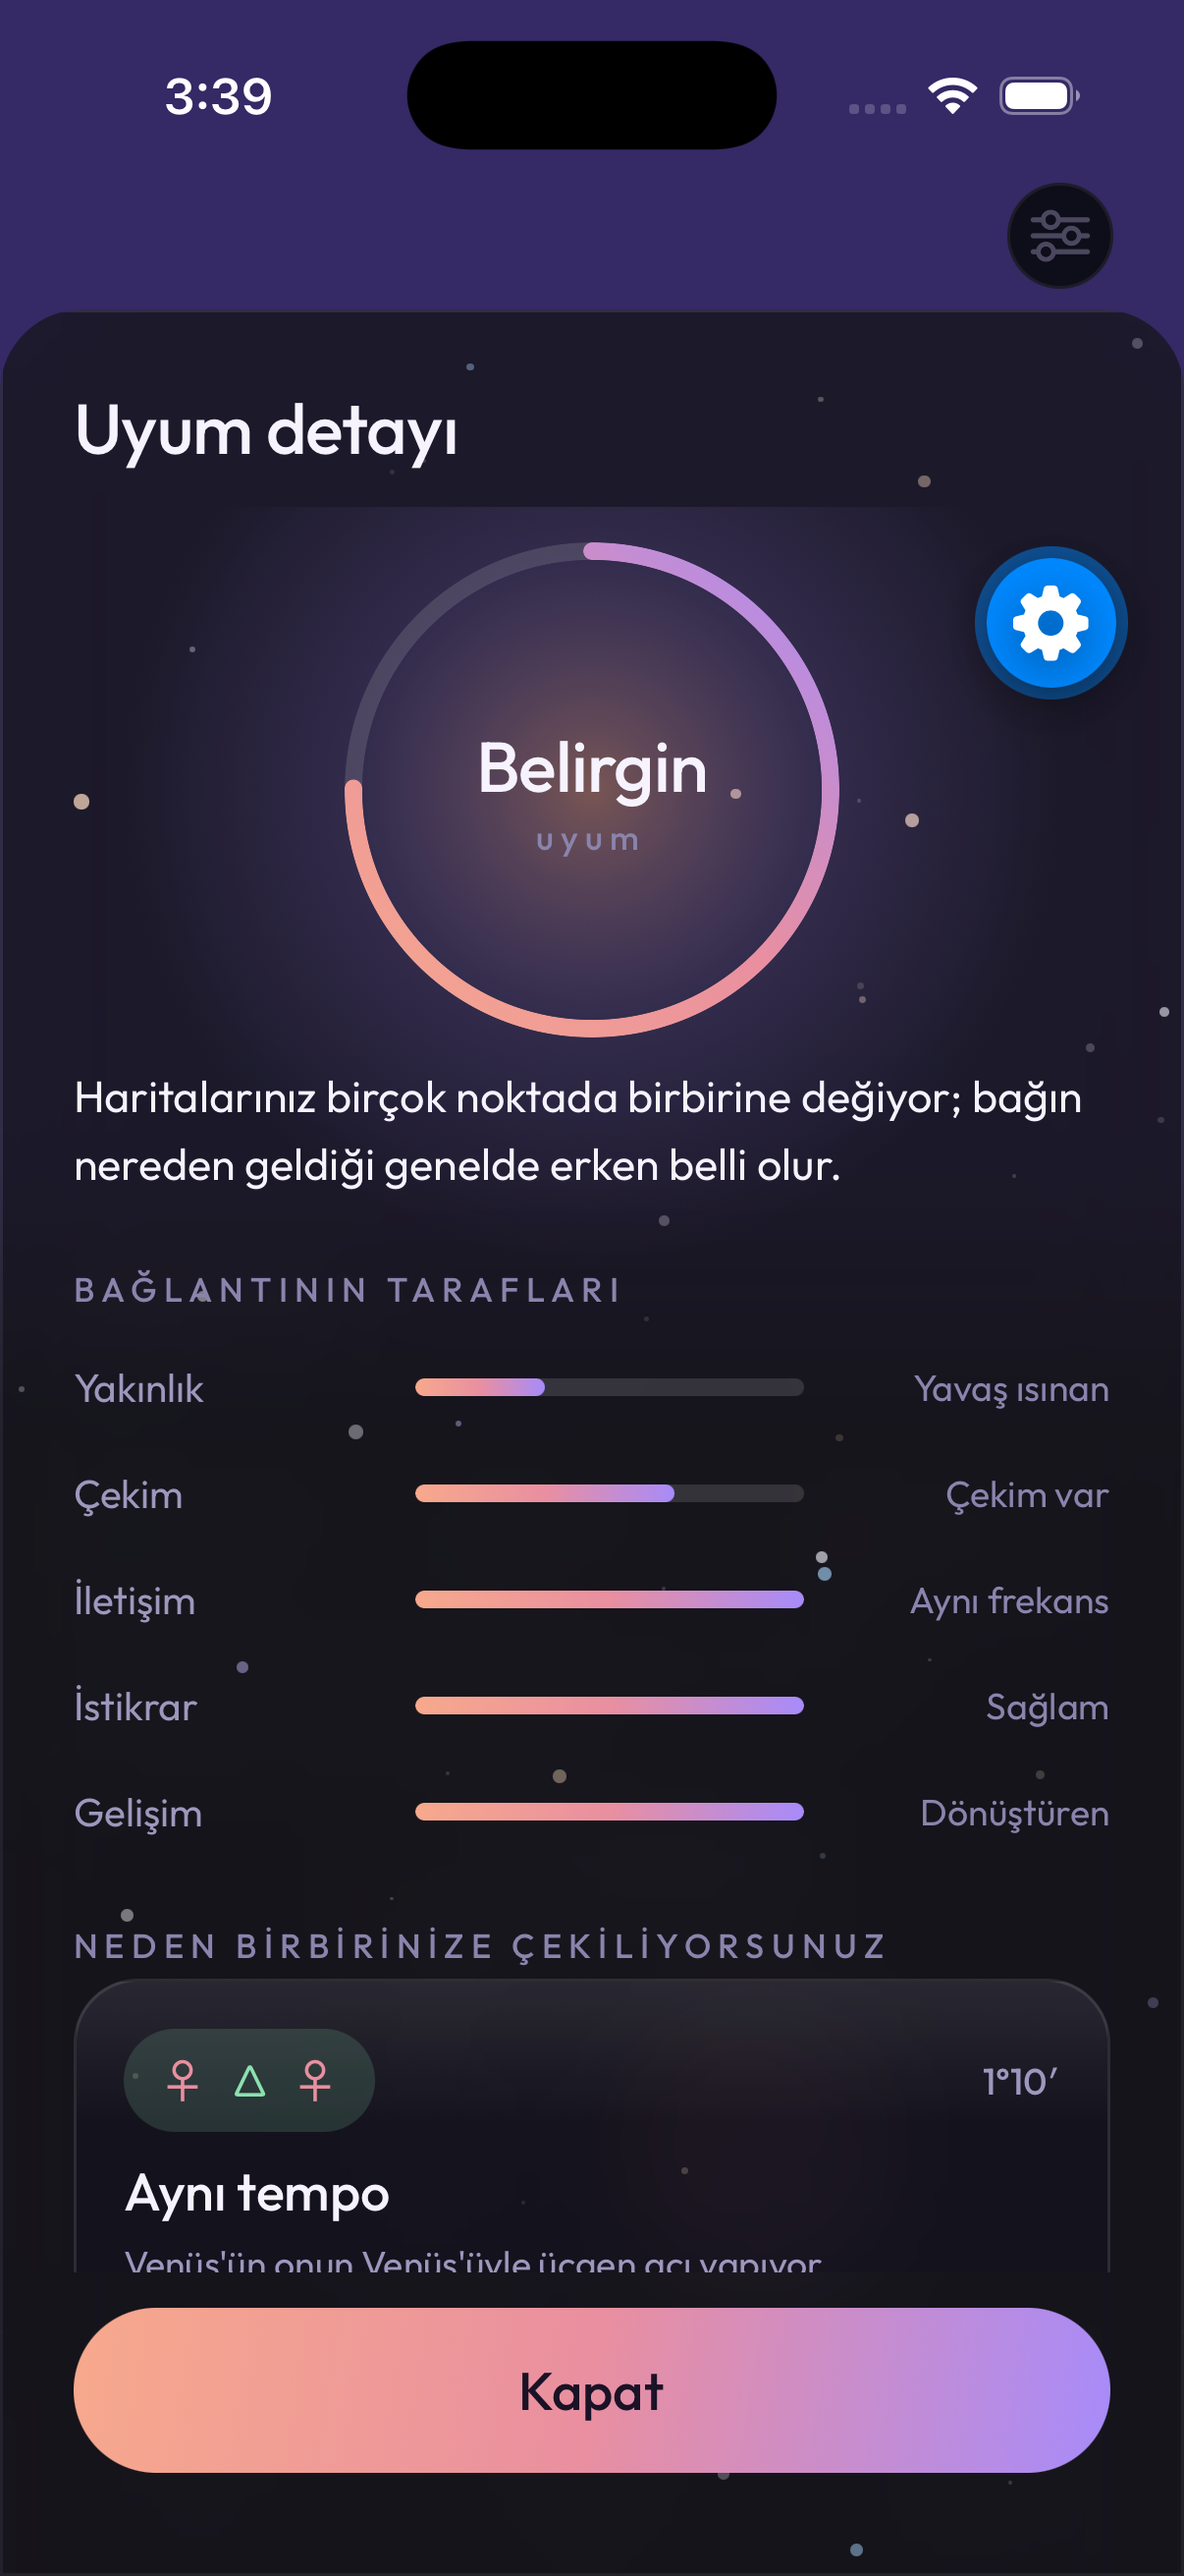
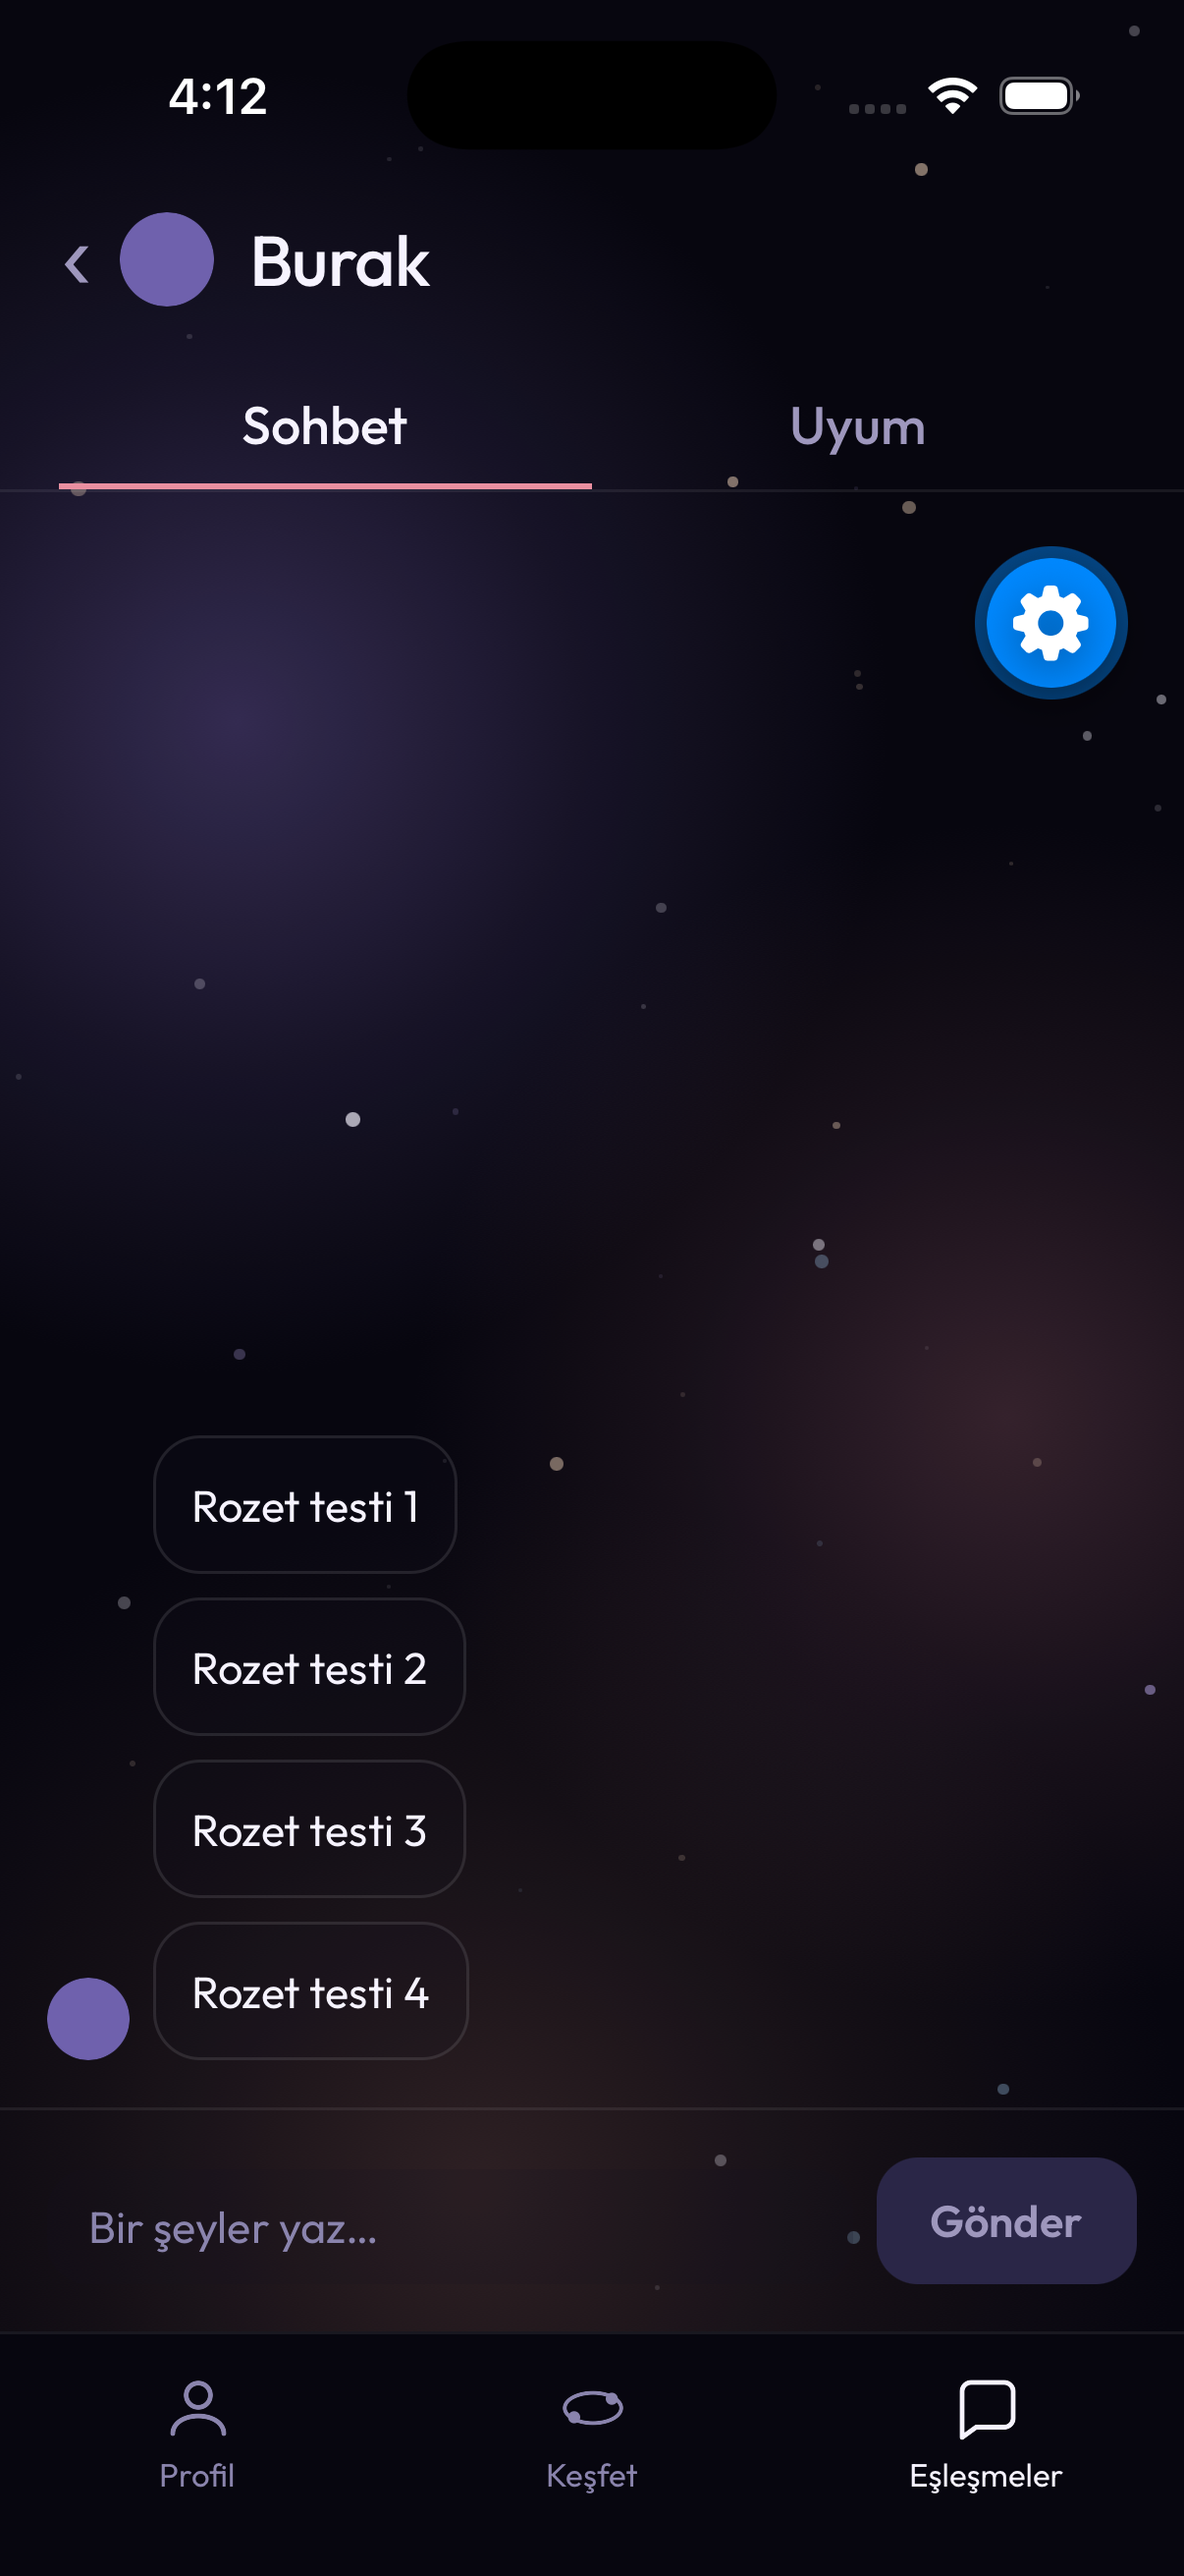
feat(mobile): the sky is clouds and a falling star, and the glass is the platform's
The star field is gone at the owner's asking; three clouds of the
palette's colours drift round small ellipses on their own native loops,
and the falling star is turned to its own heading so the tail trails
it. Glass takes iOS's thin dark material at full strength with a light
tint over it, so what is behind a card is blurred and broken rather
than dimmed — the clouds are what it scatters. The match page's ring
keeps room above itself for its glow, which a sheet's scroll view was
clipping into a line under the title.

diff --git a/apps/mobile/components/CosmicGround.tsx b/apps/mobile/components/CosmicGround.tsx
@@ -1,5 +1,5 @@
 import { LinearGradient } from 'expo-linear-gradient';
-import { useEffect, useMemo, useState } from 'react';
+import { useEffect, useState } from 'react';
 import {
   Animated,
   Easing,
@@ -16,34 +16,36 @@ import Svg, {
   Stop,
 } from 'react-native-svg';
 import { useReducedMotion } from '@/lib/a11y';
-import { starField, type Star } from '@/lib/stars';
-import { color, star as starColor } from '@/theme/tokens';
+import { color } from '@/theme/tokens';
 
 /**
  * The night sky the sheet puts behind the calculating screen (frame 04)
- * and, at the owner's asking, behind every screen: a field of stars that
- * breathe in their own time, in four colours, with one falling now and
- * then; a planet's limb over the top edge and a warm horizon at the
- * bottom where a host wants them. Drawn, not photographed — the same
- * code renders on the web. Paint only: it sits under everything and
- * takes no touches.
- *
- * The stars are views, not SVG circles: the native driver animates a
- * view's opacity off the JavaScript thread, and each star is one native
- * loop that never returns to JS once started. Several skies are alive at
- * once — every tab's screens stay mounted — so what this costs is a few
- * hundred native animation nodes, not JavaScript time: each star's phase
- * delay is one JS timer that fires once at mount, and the falling star's
- * gap is the one that keeps firing. With Reduce Motion on, nothing moves.
+ * and, at the owner's asking, behind every screen: soft clouds of the
+ * palette's colours, a star falling across a corner now and then, and a
+ * planet's limb over the top edge and a warm horizon at the bottom where
+ * a host wants them. The field of stars that was here is gone (owner,
+ * 2026-09-16: "yıldızları kaldıralım, sadece yıldız kayması kalsın").
+ * Drawn, not photographed — the same code renders on the web. Paint
+ * only: it sits under everything and takes no touches. With Reduce
+ * Motion on, nothing moves.
  */
-export const STAR_COUNT = 52;
-/** Any number; changing it moves every star, so pick once. */
-const SEED = 1995;
 /** How long a falling star takes, and how long the sky waits between. */
 const FALL_MS = 900;
 const FALL_GAP_MS = { min: 7000, max: 16000 } as const;
 // react-native-web has no native driver and warns once per app run.
 const NATIVE = Platform.OS !== 'web';
+
+/**
+ * Soft clouds of the palette's own colours, placed in fractions of the
+ * window so the composition holds on every size. Faint on their own; the
+ * glass over them is where they show, scattered.
+ */
+const NEBULAE = [
+  { x: 0.2, y: 0.28, r: 0.55, colour: color.cool, alpha: 0.28, period: 46000 },
+  { x: 0.85, y: 0.55, r: 0.5, colour: color.pink, alpha: 0.2, period: 61000 },
+  { x: 0.4, y: 0.85, r: 0.6, colour: color.warm, alpha: 0.16, period: 53000 },
+] as const;
+type NebulaSpec = (typeof NEBULAE)[number];
 
 export function CosmicGround({
   planet = true,
@@ -59,10 +61,6 @@ export function CosmicGround({
 }) {
   const { width, height } = useWindowDimensions();
   const still = useReducedMotion();
-  const stars = useMemo(
-    () => starField(SEED, STAR_COUNT, width, height),
-    [width, height],
-  );
 
   const planetR = width * 0.62;
   const planetCx = width * 0.5;
@@ -144,8 +142,14 @@ export function CosmicGround({
           </>
         ) : null}
       </Svg>
-      {stars.map((s, i) => (
-        <Twinkle key={i} star={s} still={still} />
+      {NEBULAE.map((n, i) => (
+        <Nebula
+          key={i}
+          nebula={n}
+          width={width}
+          height={height}
+          still={still}
+        />
       ))}
       {still ? null : <FallingStar width={width} height={height} />}
     </View>
@@ -153,65 +157,86 @@ export function CosmicGround({
 }
 
 /**
- * One star, breathing between a third of its light and all of it.
- *
- * One value runs 0 → 1 in a loop of a single native timing, and the
- * opacity is read off it linearly — so after the first delay nothing
- * comes back to JavaScript. The breath's shape is the timing's easing, a
- * raised cosine that is 0 at both ends, so the loop's reset is continuous
- * and the dip is soft; it cannot be on the interpolation, whose `easing`
- * the native driver drops (and logs, in dev). The delay is the star's
- * phase, so the field never pulses as one. (A loop over a sequence would
- * have run through JS every step and reset the value under the lead —
- * two reviews, 2026-09-16.)
+ * One cloud, drifting (owner, 2026-09-16: "biraz hareketli olsun"): a
+ * radial gradient in its own view, carried round a small ellipse by one
+ * native loop — a raised cosine on each axis, zero at both ends, so the
+ * loop's reset is continuous — over the better part of a minute. Slow
+ * enough to be felt rather than seen. Its own view rather than a circle
+ * in the sky's SVG because the native driver moves views, not SVG props.
  */
-const breathShape = (t: number) => (1 - Math.cos(2 * Math.PI * t)) / 2;
-function Twinkle({ star, still }: { star: Star; still: boolean }) {
-  const [breath] = useState(() => new Animated.Value(0));
+function Nebula({
+  nebula,
+  width,
+  height,
+  still,
+}: {
+  nebula: NebulaSpec;
+  width: number;
+  height: number;
+  still: boolean;
+}) {
+  const [drift] = useState(() => new Animated.Value(0));
   useEffect(() => {
     if (still) {
-      breath.setValue(0);
+      drift.setValue(0);
       return;
     }
-    const run = Animated.sequence([
-      Animated.delay(star.period * star.phase),
-      Animated.loop(
-        Animated.timing(breath, {
-          toValue: 1,
-          duration: star.period,
-          easing: breathShape,
-          useNativeDriver: NATIVE,
-        }),
-      ),
-    ]);
+    const run = Animated.loop(
+      Animated.timing(drift, {
+        toValue: 1,
+        duration: nebula.period,
+        easing: Easing.linear,
+        useNativeDriver: NATIVE,
+      }),
+    );
     run.start();
     return () => {
       run.stop();
     };
-  }, [breath, star, still]);
-  const size = star.r * 2;
-  // Memoised: a fresh interpolation per render is a fresh native node.
-  const opacity = useMemo(
-    () =>
-      breath.interpolate({
-        inputRange: [0, 1],
-        outputRange: [star.alpha, star.alpha * 0.35],
-      }),
-    [breath, star.alpha],
-  );
+  }, [drift, nebula.period, still]);
+  const size = width * nebula.r * 2;
+  const reach = width * 0.06;
+  // Two raised cosines a quarter-turn apart trace an ellipse.
+  const translateX = drift.interpolate({
+    inputRange: [0, 0.25, 0.5, 0.75, 1],
+    outputRange: [0, reach, 0, -reach, 0],
+  });
+  const translateY = drift.interpolate({
+    inputRange: [0, 0.25, 0.5, 0.75, 1],
+    outputRange: [-reach * 0.6, 0, reach * 0.6, 0, -reach * 0.6],
+  });
   return (
     <Animated.View
-      style={{
-        position: 'absolute',
-        left: star.x - star.r,
-        top: star.y - star.r,
-        width: size,
-        height: size,
-        borderRadius: star.r,
-        backgroundColor: starColor[star.hue] ?? starColor[0],
-        opacity,
-      }}
-    />
+      style={[
+        styles.nebula,
+        {
+          left: width * nebula.x - size / 2,
+          top: height * nebula.y - size / 2,
+          width: size,
+          height: size,
+          transform: [{ translateX }, { translateY }],
+        },
+      ]}
+    >
+      <Svg width={size} height={size}>
+        <Defs>
+          <RadialGradient id="nebula" cx="50%" cy="50%" r="50%">
+            <Stop
+              offset="0"
+              stopColor={nebula.colour}
+              stopOpacity={nebula.alpha}
+            />
+            <Stop
+              offset="0.55"
+              stopColor={nebula.colour}
+              stopOpacity={nebula.alpha * 0.35}
+            />
+            <Stop offset="1" stopColor={nebula.colour} stopOpacity={0} />
+          </RadialGradient>
+        </Defs>
+        <Circle cx={size / 2} cy={size / 2} r={size / 2} fill="url(#nebula)" />
+      </Svg>
+    </Animated.View>
   );
 }
 
@@ -251,13 +276,19 @@ function FallingStar({ width, height }: { width: number; height: number }) {
     };
   }, [gap, progress]);
   const travel = Math.max(width, height) * 0.7;
+  // Down and to the left; the streak is turned to the same vector, so the
+  // tail cannot point anywhere but where the star came from (owner,
+  // 2026-09-16: "kuyrukla aynı yönde değil").
+  const dx = -1;
+  const dy = 0.6;
+  const heading = `${(Math.atan2(dy, dx) * 180) / Math.PI}deg`;
   const translateX = progress.interpolate({
     inputRange: [0, 1],
-    outputRange: [0, -travel],
+    outputRange: [0, travel * dx],
   });
   const translateY = progress.interpolate({
     inputRange: [0, 1],
-    outputRange: [0, travel * 0.6],
+    outputRange: [0, travel * dy],
   });
   // In only while it moves; parked invisible between falls.
   const opacity = progress.interpolate({
@@ -272,12 +303,14 @@ function FallingStar({ width, height }: { width: number; height: number }) {
           left: width * 0.85,
           top: height * 0.08,
           opacity,
-          transform: [{ translateX }, { translateY }, { rotate: '31deg' }],
+          transform: [{ translateX }, { translateY }, { rotate: heading }],
         },
       ]}
     >
       <LinearGradient
-        colors={[color.text, color.coolLight, color.bg]}
+        // Tail to head: the view's +x points along the heading, so the
+        // bright end is the one in front.
+        colors={[color.bg, color.coolLight, color.text]}
         start={{ x: 0, y: 0.5 }}
         end={{ x: 1, y: 0.5 }}
         style={styles.streakFill}
@@ -287,7 +320,8 @@ function FallingStar({ width, height }: { width: number; height: number }) {
 }
 
 const styles = StyleSheet.create({
-  ground: { position: 'absolute', top: 0, left: 0 },
+  ground: { position: 'absolute', top: 0, left: 0, overflow: 'hidden' },
+  nebula: { position: 'absolute' },
   streak: { position: 'absolute', width: 96, height: 2 },
   streakFill: { flex: 1, borderRadius: 1 },
 });

diff --git a/apps/mobile/theme/tokens.ts b/apps/mobile/theme/tokens.ts
@@ -73,7 +73,7 @@ export const color = {
  * the top edge catching light.
  */
 export const glass = {
-  fill: 'rgba(18,16,31,0.42)',
+  fill: 'rgba(18,16,31,0.16)',
   /**
    * A sheet over a screen: denser than a card and blurred harder (85 to
    * a card's 55), because what is under it is a page of text and a
@@ -81,20 +81,14 @@ export const glass = {
    * reading through; the tint alone did not, at any alpha that still
    * looked like glass (seen 2026-09-16).
    */
-  sheet: 'rgba(12,10,22,0.66)',
-  fillSoft: 'rgba(23,21,40,0.5)',
-  fillHigh: 'rgba(29,27,49,0.62)',
+  sheet: 'rgba(12,10,22,0.4)',
+  fillSoft: 'rgba(23,21,40,0.34)',
+  fillHigh: 'rgba(29,27,49,0.5)',
   edge: 'rgba(255,255,255,0.1)',
   /** The light a glass surface catches along its top; fades to nothing. */
   sheen: 'rgba(255,255,255,0.09)',
   sheenEnd: 'rgba(255,255,255,0)',
 } as const;
-
-/**
- * The sky's stars (owner, 2026-09-16: "farklı renklerde olsun"): white
- * for most, then warm, lavender and a pale blue. Indexed by `Star.hue`.
- */
-export const star = ['#F6F3FF', '#FFE0C4', '#C9B6FF', '#A9D8FF'] as const;
 
 /**
  * A colour per body, for glyphs (owner, 2026-09-16: aspects coloured

diff --git a/apps/mobile/components/ui.tsx b/apps/mobile/components/ui.tsx
@@ -107,8 +107,14 @@ export function Screen({
   );
 }
 
-/** How much the blur behind a glass surface blurs; 0–100. */
-const GLASS_BLUR = 55;
+/**
+ * The blur at full strength, and the platform's own thin material for its
+ * tint: iOS draws that the way it draws its own glass — blurred, slightly
+ * light, vibrant — where a dark tint of ours over a blur only dimmed the
+ * view (owner, 2026-09-16, twice). Web and Android take expo-blur's
+ * approximation of the material.
+ */
+const GLASS_BLUR = 100;
 
 /**
  * True under a sheet. A sheet blurs once for everything on it, so a card
@@ -141,7 +147,7 @@ export function Glass({
       {inSheet ? null : (
         <BlurView
           intensity={GLASS_BLUR}
-          tint="dark"
+          tint="systemThinMaterialDark"
           style={StyleSheet.absoluteFill}
           pointerEvents="none"
         />

diff --git a/apps/mobile/components/PairReading.tsx b/apps/mobile/components/PairReading.tsx
@@ -74,8 +74,12 @@ export function PairReading({
 }
 
 const styles = StyleSheet.create({
-  root: { gap: space.sm, paddingTop: space.md },
-  ring: { alignSelf: 'center' },
+  root: { gap: space.sm },
+  // The glow reaches above the ring by a third of its size; inside a
+  // sheet's scroll view that overhang is clipped at the top edge into a
+  // hard line under the title (owner, 2026-09-16), so the ring keeps
+  // that much room above itself.
+  ring: { alignSelf: 'center', paddingTop: 168 * 0.3 },
   bandName: { ...type.title, color: color.text, textAlign: 'center' },
   bandLabel: { ...type.label, color: color.textFaint },
 });

diff --git a/apps/mobile/components/Popup.tsx b/apps/mobile/components/Popup.tsx
@@ -150,8 +150,8 @@ export function Popup({
               own content are its own, and the cards on it take no blur of
               their own (InSheetProvider below). */}
           <BlurView
-            intensity={85}
-            tint="dark"
+            intensity={100}
+            tint="systemThinMaterialDark"
             style={styles.fill}
             pointerEvents="none"
           />

diff --git a/apps/mobile/components/BandRing.tsx b/apps/mobile/components/BandRing.tsx
@@ -36,7 +36,7 @@ export function BandRing({
   const r = (size - stroke) / 2;
   const circumference = 2 * Math.PI * r;
   const filled = (BANDS.indexOf(band) + 1) / BANDS.length;
-  const halo = size * 1.9;
+  const halo = size * 1.6;
   return (
     <View
       style={{ width: size, height: size }}
